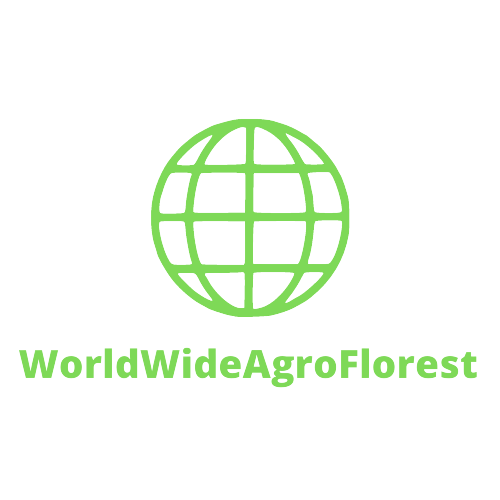
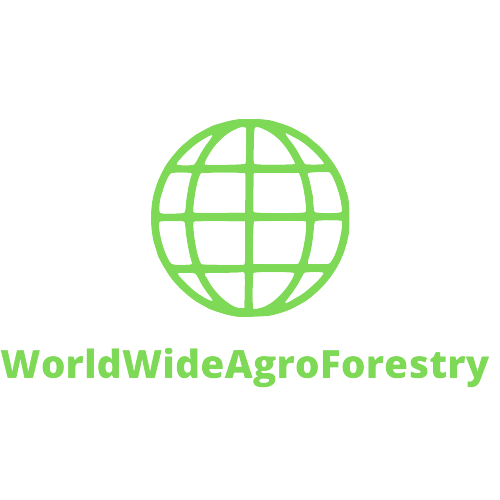
corrigindo erro

Changed region(s): [[0.0, 0.69, 0.99, 0.78]]

diff --git a/src/index.html b/src/index.html
@@ -2,7 +2,7 @@
 <html lang="en">
 <head>
   <meta charset="utf-8">
-  <title>Wwaf</title>
+  <title>WorldWideAgroForestry</title>
   <base href="/">
   <meta name="viewport" content="width=device-width, initial-scale=1">
   <link rel="icon" type="image/x-icon" href="favicon.ico">
